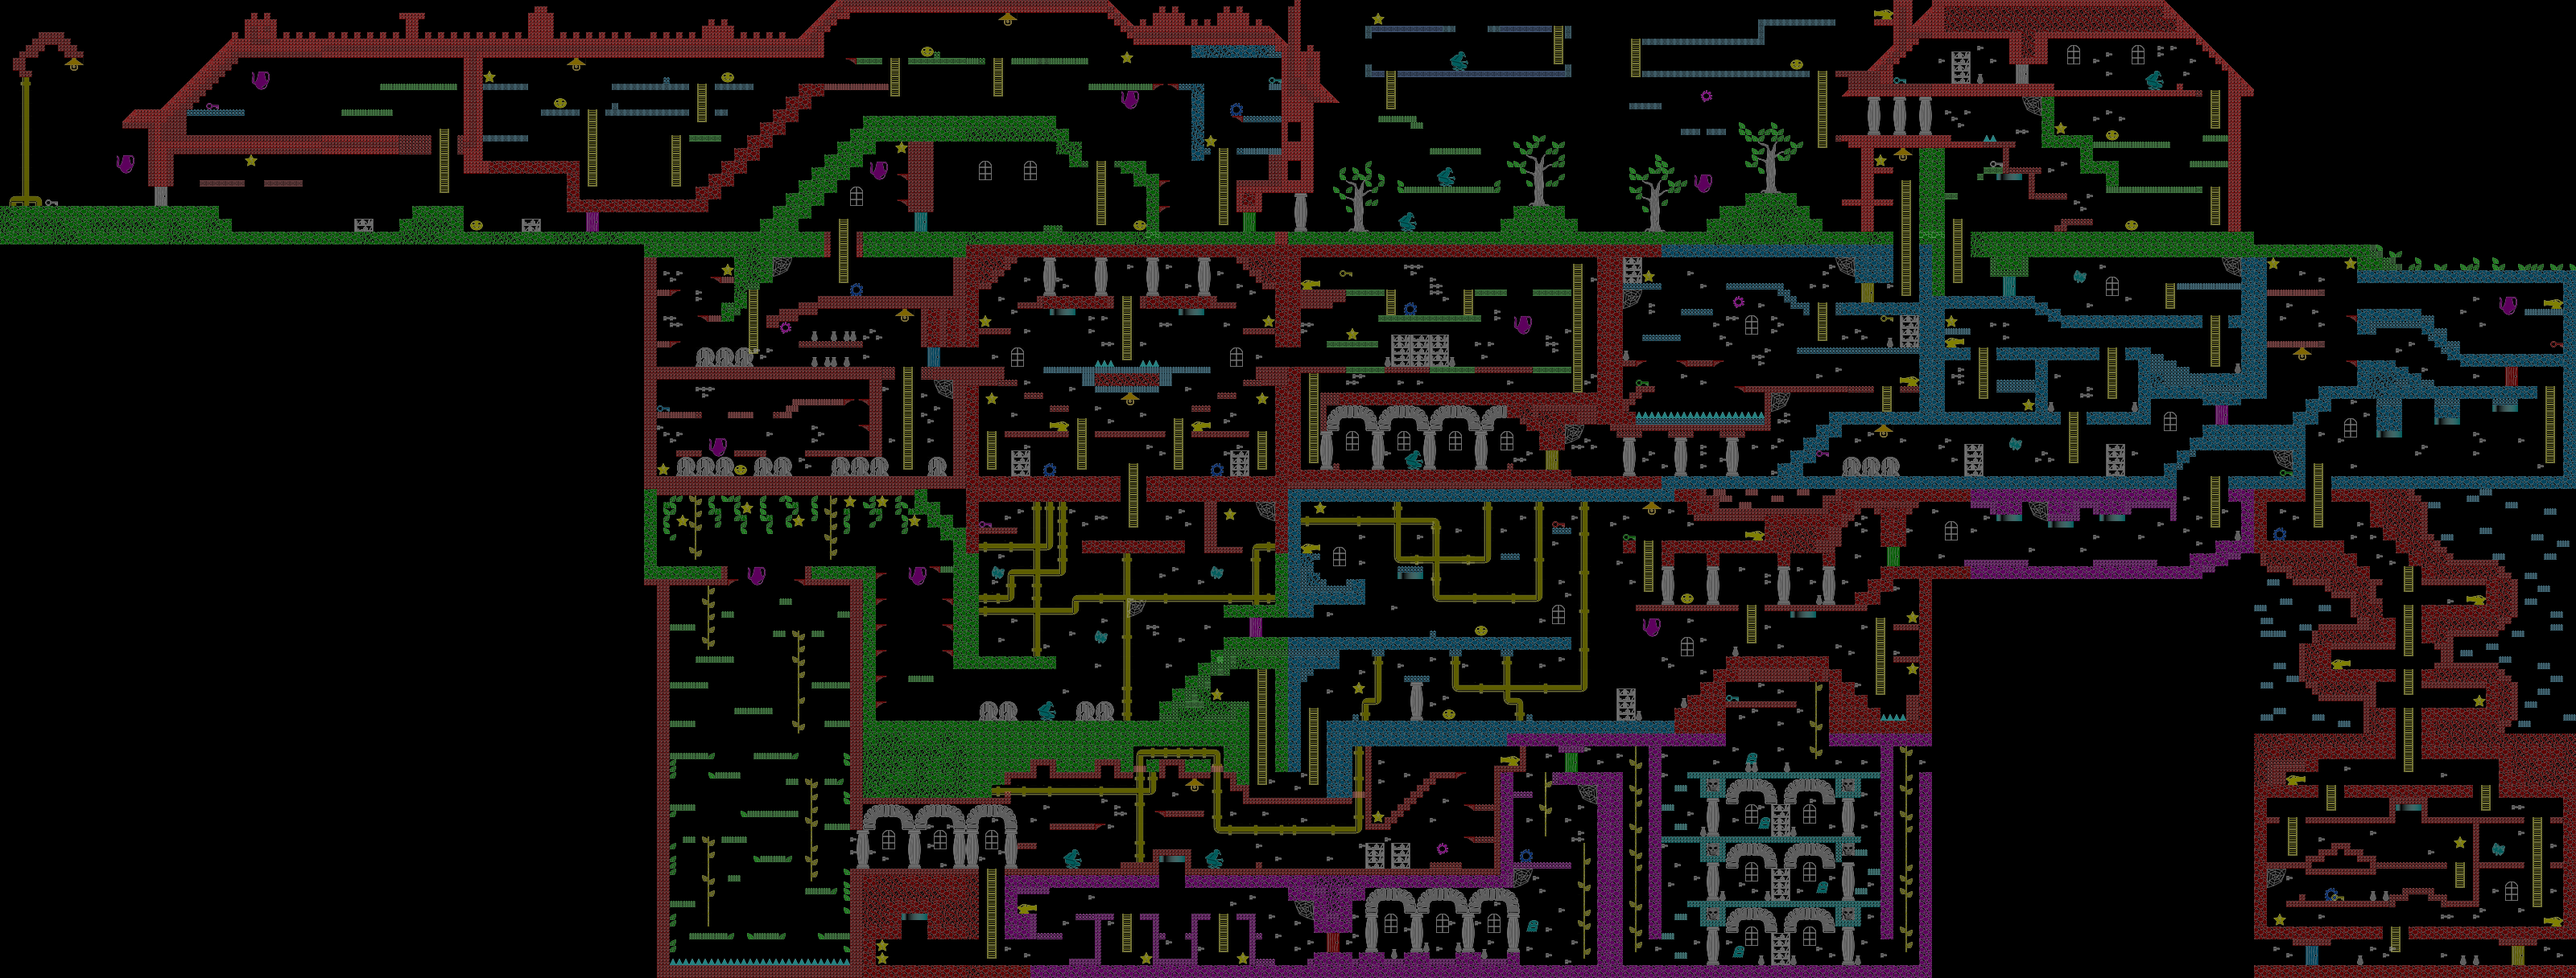
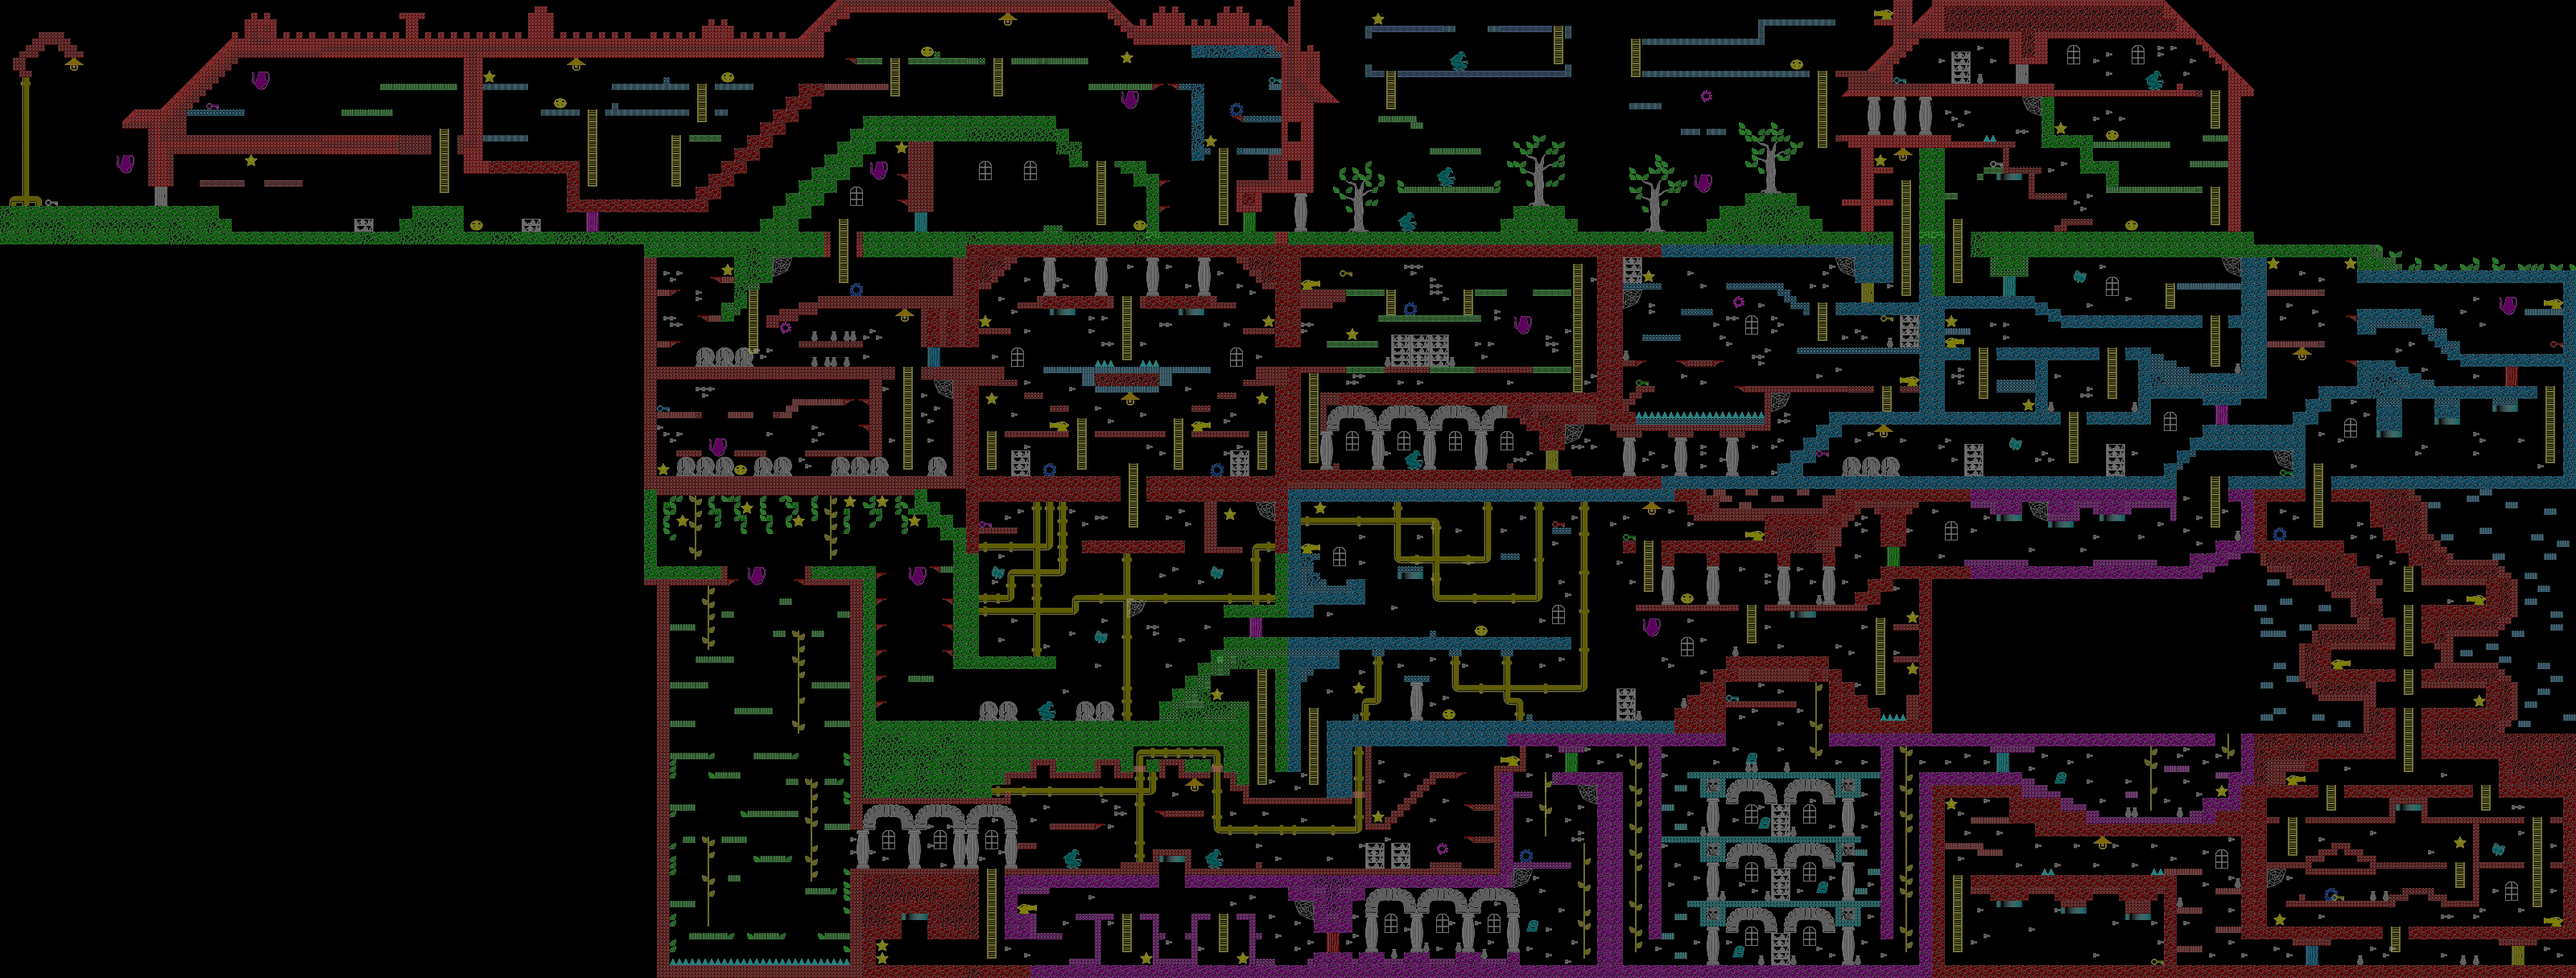
the chapel

Changed region(s): [[0.75, 0.75, 0.875, 1.0]]

diff --git a/src/rooms.js b/src/rooms.js
@@ -14,19 +14,21 @@ var WORLD = {
  	"garden": ["kitchen", "garden2", null, null],
  	"garden2": ["garden", "guesthouse", null, "tunnel2"],
  	"guesthouse": ["garden2", null, null, "earth"],
- 	"earth": ["tunnel2", "earth2", "guesthouse", "stairs2"],
+ 	"earth": ["tunnel2", "earth2", "guesthouse", "chapel"],
  	"earth2": ["earth", null, null, "down"],
-    "down": [null, null, "earth2", "down2"],
-    "down2": [null, null, "down", null],
+    "down": ["chapel", null, "earth2", "down2"],
+    "down2": ["down3", null, "down", null],
+	"down3": ["crypt3", "down2", "chapel", null],
 	"pipeline": ["chasm", "pipeline2", "cellar2", "crypt"],
 	"pipeline2": ["pipeline", "stairs", null, "crypt2"],
 	"chasm": [null, "pipeline", null, "chasm2"],
 	"chasm2": [null, "crypt", "chasm", null],
-	"stairs": ["pipeline2", "stairs2", null, "crypt3"],
-	"stairs2": ["stairs", null, "earth", null],
+	"stairs": ["pipeline2", "chapel", null, "crypt3"],
+	"chapel": ["stairs", "down", "earth", "down3"],
 	"crypt": ["chasm2", "crypt2", "pipeline", null],
 	"crypt2": ["crypt", "crypt3", "pipeline2", null],
-	"crypt3": ["crypt2", null, "stairs", null]
+	"crypt3": ["crypt2", "down3", "stairs", null]
+
 };
 
 var DESCRIPTIONS = {
@@ -45,12 +47,13 @@ var DESCRIPTIONS = {
     earth2: "Earthworks",
     down: "The Old Well",
     down2: "The Old Well",
+    down3: "Beneath the Well",
     pipeline: "The leaky pipes",
     pipeline2: "The leaky pipes",
     chasm: "The great chasm",
     chasm2: "The great chasm",
     stairs: "Dusty service tunnels",
-    stairs2: "Dusty service tunnels",
+    chapel: "The Chapel",
 	crypt: "Forgotten crypts",
 	crypt2: "Forgotten crypts",
 	crypt3: "Forgotten crypts"
